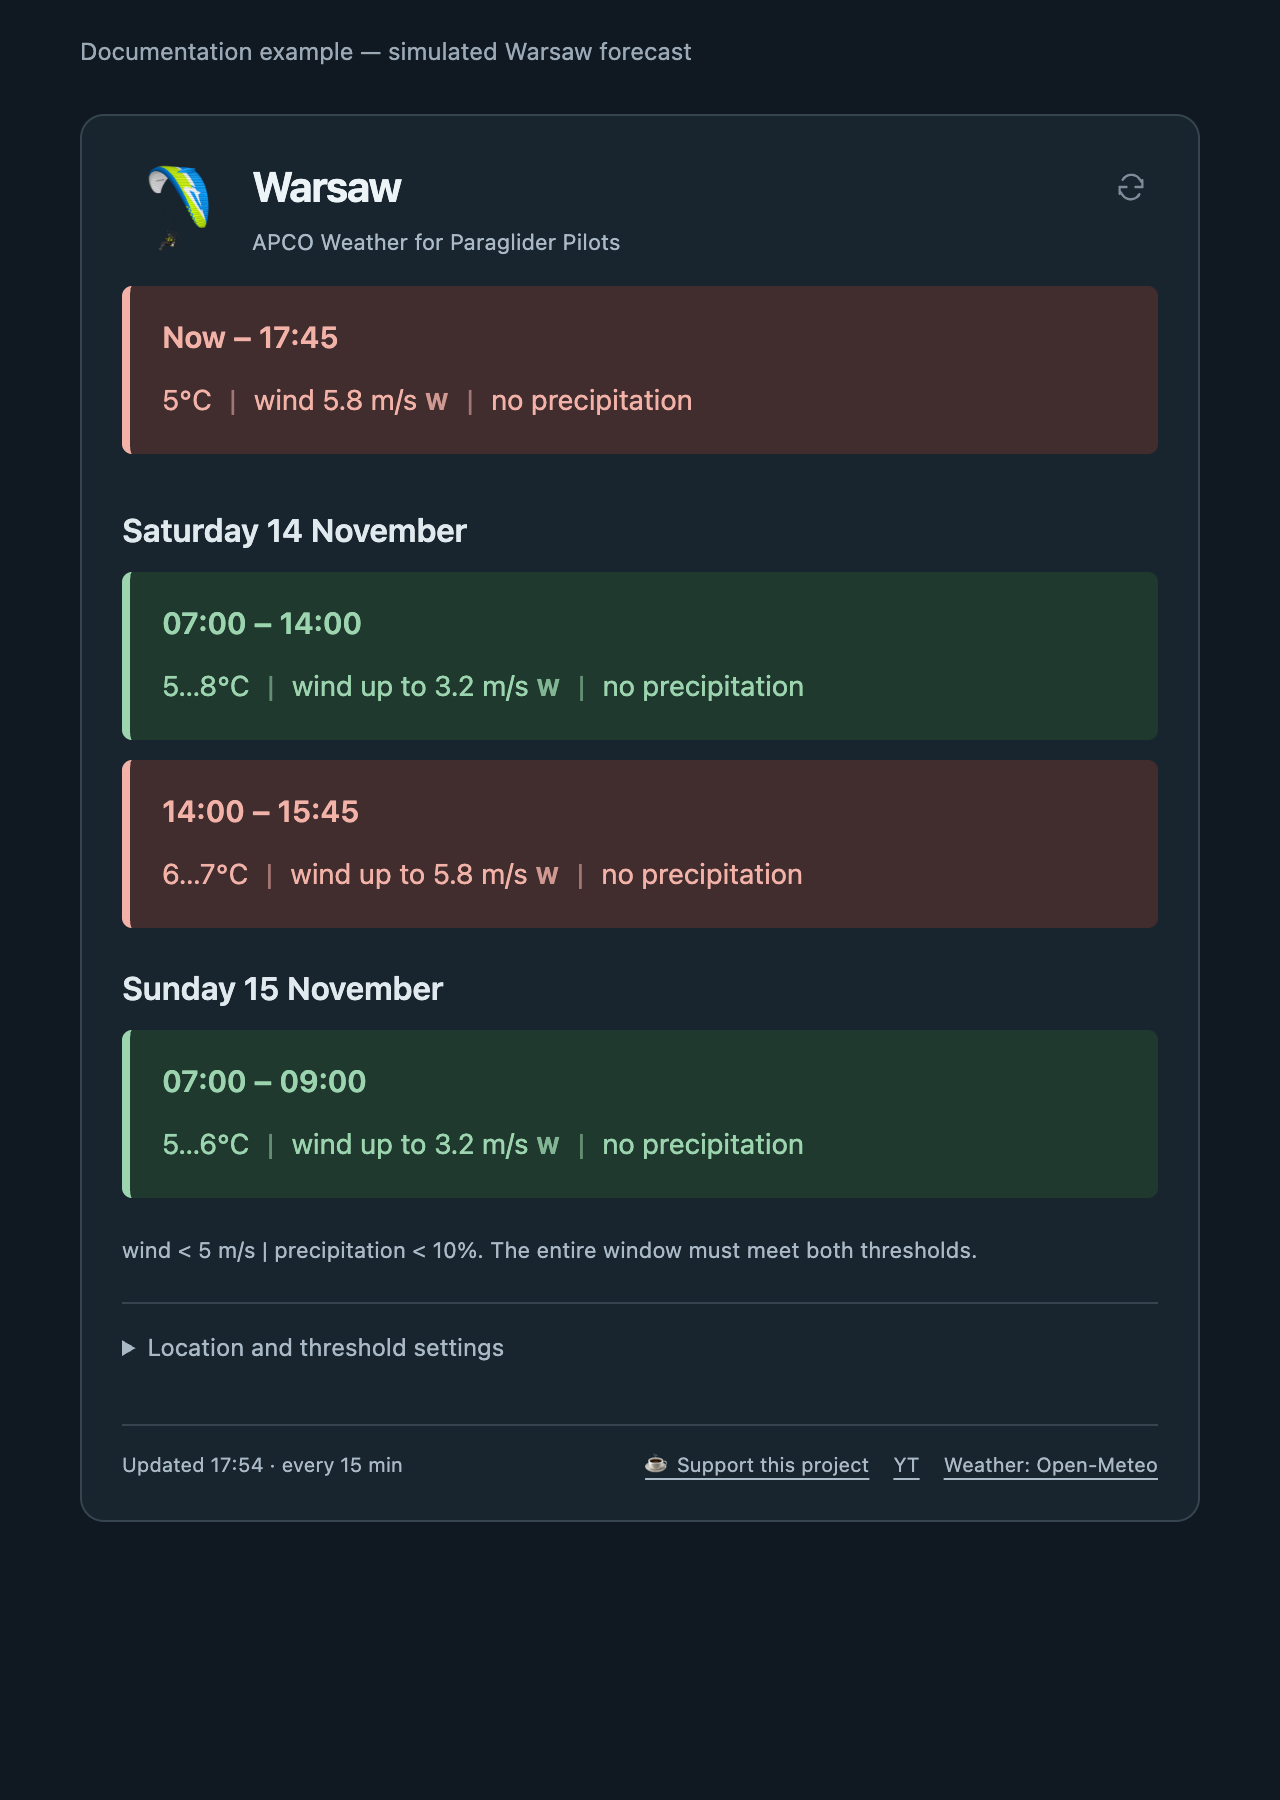
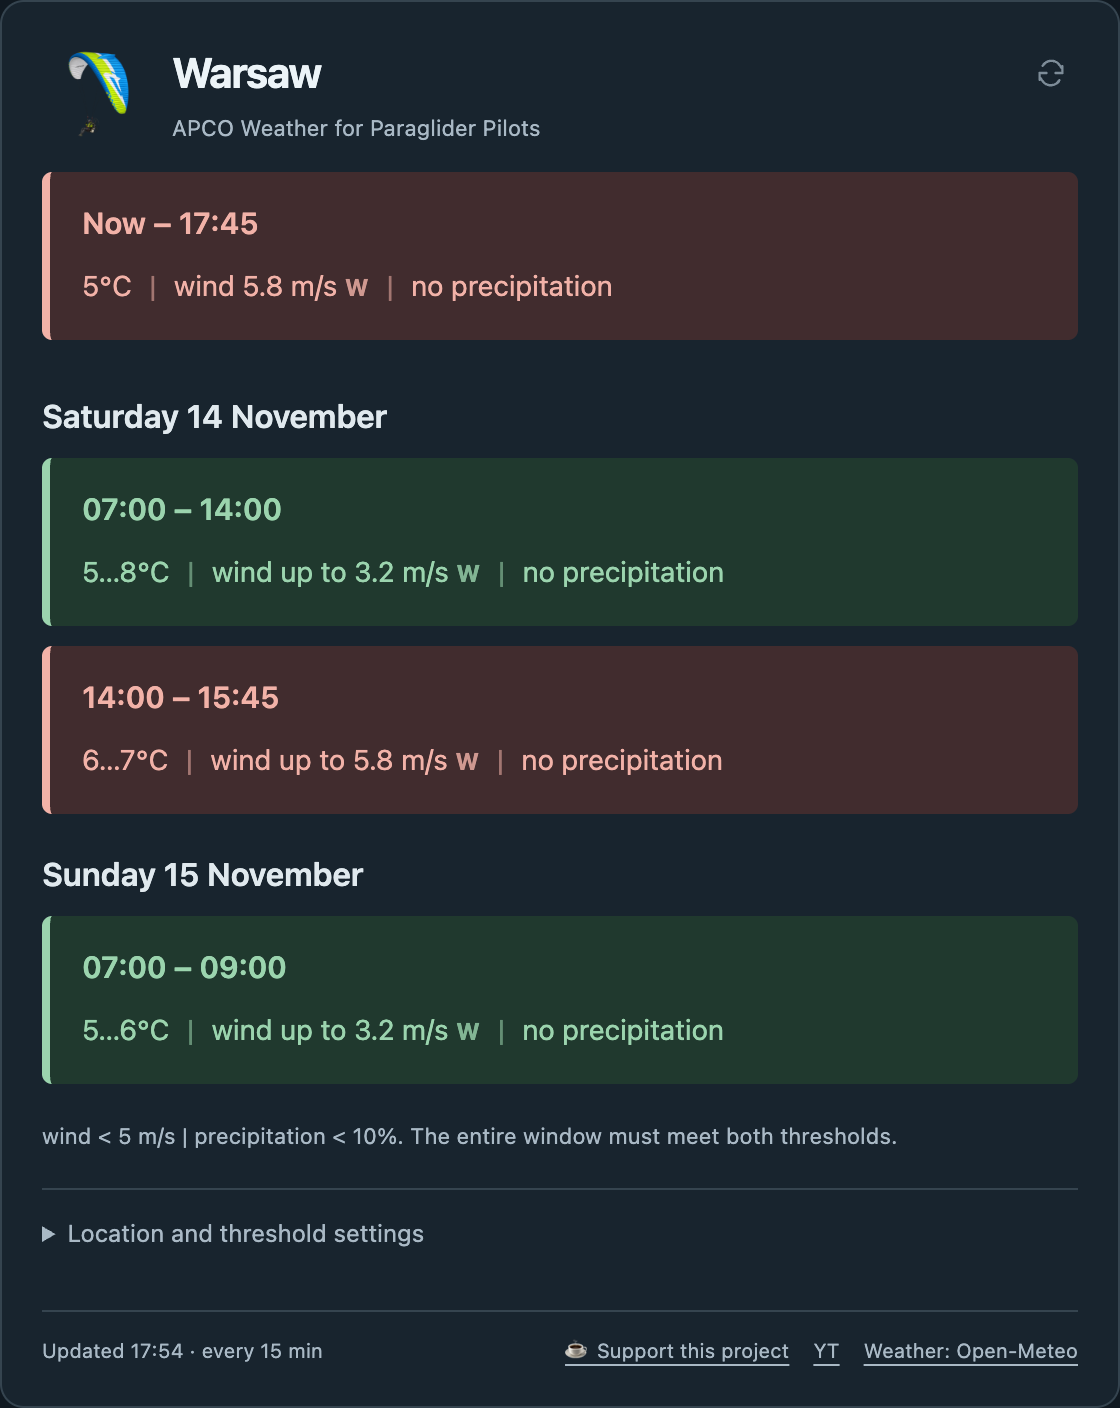
Crop documentation screenshots to card boundaries

diff --git a/wdrozenie.html b/wdrozenie.html
@@ -16,7 +16,7 @@
 <div class="note"><strong>Ważne:</strong> lokalne sprawdzenia YAML i testy logiki nie zastępują sprawdzenia na Twojej instancji Home Assistant. Jeżeli pliki na serwerze zawierają dodatkowe ustawienia, połącz zmiany — nie nadpisuj ich całym plikiem z projektu.</div>
 
 <p>Instrukcja projektu: <a href="README.pl.md">Polski</a> / <a href="README.md">English</a> / <a href="README.it.md">Italiano</a> / <a href="README.es.md">Español</a>. Bez jawnego <code>language</code> karta dopasowuje język do interfejsu HA (PL, EN, IT lub ES), a dla pozostałych wybiera angielski. Ręczny wybór ma pierwszeństwo; nieznane wartości także włączają angielski.</p>
-<p>Domyślny opis w GitHubie i HACS jest po angielsku. README zawiera dwa osobne, bezstratne zrzuty angielskiej karty w rozdzielczości 1280 × 1800, wyświetlane w README w rozmiarze 320 × 450 px, czyli o połowę niższe niż poprzednie zrzuty: Warszawę w ciemnym motywie oraz Piecki w jasnym; przykład Warszawy używa oznaczonych danych demonstracyjnych. Stopka mieści czas aktualizacji, link wsparcia, skrót „YT” i źródło pogody w jednym wierszu; na wąskim ekranie może się zawinąć.</p>
+<p>Domyślny opis w GitHubie i HACS jest po angielsku. README zawiera dwa osobne, bezstratne zrzuty angielskiej karty wykadrowane do samych kart, bez otaczającego tła i podpisów nad kartą, wyświetlane w README w szerokości 320 px z automatyczną wysokością: Warszawę w ciemnym motywie oraz Piecki w jasnym; przykład Warszawy używa oznaczonych danych demonstracyjnych. Stopka mieści czas aktualizacji, link wsparcia, skrót „YT” i źródło pogody w jednym wierszu; na wąskim ekranie może się zawinąć.</p>
 <h2>Instalacja i aktualizacje przez HACS — karta Dashboard</h2>
 <p>Projekt jest przygotowany jako karta Dashboard (kategoria techniczna <code>plugin</code>). Paczka <code>dist/apco-maniacs-card.js</code> zawiera kod, style, tłumaczenia i grafikę; HACS nie instaluje plików <code>configuration.yaml</code>, automatyzacji ani integracji Python. Publiczne repozytorium do dodania w HACS: <a href="https://github.com/piotrwozniak/apco-maniacs-card">https://github.com/piotrwozniak/apco-maniacs-card</a>.</p>
 <ol>
@@ -27,7 +27,7 @@
 <li>Przy migracji z ręcznej instalacji usuń stary zasób <code>/local/warun-web/warun-card.js</code>, zachowaj zasób HACS i konfiguracje istniejących kart. Zamknij stronę i otwórz ponownie. Typy kart i ich ustawienia pozostają zgodne.</li>
 <li>Kolejne wersje instaluj przez HACS, następnie odśwież przeglądarkę. Nie nadpisuj przy tym konfiguracji HA i scen.</li>
 </ol>
-<p>Do ręcznej instalacji tej samej paczki wystarczy jeden plik <code>dist/apco-maniacs-card.js</code> w <code>www/apco-maniacs-card/</code> i zasób <code>/local/apco-maniacs-card/apco-maniacs-card.js?v=1.0.5</code>. Wariant czteroplikowy poniżej nadal działa. Nie ładuj obu wariantów naraz.</p>
+<p>Do ręcznej instalacji tej samej paczki wystarczy jeden plik <code>dist/apco-maniacs-card.js</code> w <code>www/apco-maniacs-card/</code> i zasób <code>/local/apco-maniacs-card/apco-maniacs-card.js?v=1.0.6</code>. Wariant czteroplikowy poniżej nadal działa. Nie ładuj obu wariantów naraz.</p>
 <p>Stopka zawiera dyskretne linki: <a href="https://buymeacoffee.com/piotrwoznil">Buy Me a Coffee</a> oraz <a href="https://www.youtube.com/@piter_fly">Piotrek Lata — YouTube</a>. Szczegóły testów i wydawania wersji: <code>README.md</code>. Pierwszy release przygotowano jako wersję <code>1.0.0</code>; zdalna walidacja HACS i test na działającym HA następują po publikacji.</p>
 <h2>Wariant webowy — niezależny od Home Assistant</h2>
 <p>Folder <code>warun-web/</code> zawiera samodzielną wersję Waruna pogodowego. Ten sam element <code>&lt;apco-maniacs-card&gt;</code> działa na zwykłej stronie i jako karta dashboardu HA. Nie korzysta z integracji Python, encji pogodowych ani <code>sun.sun</code>. Pobiera dane bezpośrednio z Open-Meteo. Ten wariant nie obsługuje przypomnień o odpadach.</p>

diff --git a/dist/apco-maniacs-card.js b/dist/apco-maniacs-card.js
@@ -1,4 +1,4 @@
-// APCO Maniacs 1.0.5 — generated by node scripts/build.mjs
+// APCO Maniacs 1.0.6 — generated by node scripts/build.mjs
 // Weather: Open-Meteo. Independent community project.
 (() => {
 const DEFAULTS = Object.freeze({

diff --git a/README.pl.md b/README.pl.md
@@ -8,9 +8,9 @@ Karta pogodowa Home Assistant dla paralotniarzy. Wybierz dokładne miejsce na ma
 
 Dwa osobne, bezstratne zrzuty PNG w podwójnej rozdzielczości: Warszawa w ciemnym motywie i Piecki w jasnym. Interfejs angielski. Zrzuty tego samego komponentu w podglądzie samodzielnym, wykonane 13 listopada 2026. Dane Warszawy są demonstracyjne (zielone okno 07:00–14:00); Piecki korzystają z prognozy Open-Meteo pobranej przy wykonywaniu zrzutów. Dane demonstracyjne nie są używane przez instalowaną kartę.
 
-<img src="https://raw.githubusercontent.com/piotrwozniak/apco-maniacs-card/main/docs/weather-en-dark.png" alt="Warszawa — angielska karta, ciemny motyw" width="320" height="450">
+<img src="https://raw.githubusercontent.com/piotrwozniak/apco-maniacs-card/main/docs/weather-en-dark.png" alt="Warszawa — angielska karta, ciemny motyw" width="320">
 
-<img src="https://raw.githubusercontent.com/piotrwozniak/apco-maniacs-card/main/docs/weather-en-light.png" alt="Piecki — angielska karta, jasny motyw" width="320" height="450">
+<img src="https://raw.githubusercontent.com/piotrwozniak/apco-maniacs-card/main/docs/weather-en-light.png" alt="Piecki — angielska karta, jasny motyw" width="320">
 
 - Mapa z pinezką w graficznym edytorze karty; współrzędne można też wpisać ręcznie.
 - Prognoza Open-Meteo dla wybranego punktu, bez encji pogodowej, integracji Python i klucza API.
@@ -65,7 +65,7 @@ Nie podmieniaj przy tym `configuration.yaml`, automatyzacji ani scen. HACS insta
 
 ## Instalacja ręczna jednego pliku
 
-Skopiuj [dist/apco-maniacs-card.js](dist/apco-maniacs-card.js) do `www/apco-maniacs-card/`. Dodaj zasób `/local/apco-maniacs-card/apco-maniacs-card.js?v=1.0.5` typu **Moduł JavaScript**. Przy pierwszym utworzeniu `www` zrestartuj HA. Nie potrzebujesz osobnych plików CSS, tłumaczeń ani grafiki.
+Skopiuj [dist/apco-maniacs-card.js](dist/apco-maniacs-card.js) do `www/apco-maniacs-card/`. Dodaj zasób `/local/apco-maniacs-card/apco-maniacs-card.js?v=1.0.6` typu **Moduł JavaScript**. Przy pierwszym utworzeniu `www` zrestartuj HA. Nie potrzebujesz osobnych plików CSS, tłumaczeń ani grafiki.
 
 Dotychczasowa wersja źródłowa w `warun-web/` nadal działa samodzielnie i może być wdrażana jako cztery pliki. Pełna instrukcja: [wdrozenie.html](wdrozenie.html).
 

diff --git a/README.es.md b/README.es.md
@@ -6,9 +6,9 @@ Tarjeta meteorológica de Home Assistant para pilotos de parapente. Elige un pun
 
 Capturas del componente independiente en inglés, con temas claro y oscuro, realizadas el 13 de noviembre de 2026. Varsovia utiliza datos de demostración simulados (ventana verde de 07:00 a 14:00); Piecki muestra el pronóstico de Open-Meteo obtenido al hacer las capturas. La tarjeta instalada nunca utiliza los datos de demostración.
 
-<img src="https://raw.githubusercontent.com/piotrwozniak/apco-maniacs-card/main/docs/weather-en-dark.png" alt="Varsovia — interfaz en inglés, tema oscuro" width="320" height="450">
+<img src="https://raw.githubusercontent.com/piotrwozniak/apco-maniacs-card/main/docs/weather-en-dark.png" alt="Varsovia — interfaz en inglés, tema oscuro" width="320">
 
-<img src="https://raw.githubusercontent.com/piotrwozniak/apco-maniacs-card/main/docs/weather-en-light.png" alt="Piecki — interfaz en inglés, tema claro" width="320" height="450">
+<img src="https://raw.githubusercontent.com/piotrwozniak/apco-maniacs-card/main/docs/weather-en-light.png" alt="Piecki — interfaz en inglés, tema claro" width="320">
 
 - Mapa nativo con marcador que puedes arrastrar en el editor visual; también permite introducir coordenadas manualmente.
 - Pronóstico de Open-Meteo sin entidad meteorológica, integración Python ni clave API.
@@ -63,7 +63,7 @@ No sustituyas `configuration.yaml`, automatizaciones ni escenas. HACS instala so
 
 ## Instalación manual de un solo archivo
 
-Copia [dist/apco-maniacs-card.js](dist/apco-maniacs-card.js) a `www/apco-maniacs-card/`. Añade `/local/apco-maniacs-card/apco-maniacs-card.js?v=1.0.5` como recurso de tipo **Módulo JavaScript**. Si acabas de crear `www`, reinicia HA. No necesitas archivos CSS, traducciones ni imágenes por separado.
+Copia [dist/apco-maniacs-card.js](dist/apco-maniacs-card.js) a `www/apco-maniacs-card/`. Añade `/local/apco-maniacs-card/apco-maniacs-card.js?v=1.0.6` como recurso de tipo **Módulo JavaScript**. Si acabas de crear `www`, reinicia HA. No necesitas archivos CSS, traducciones ni imágenes por separado.
 
 La versión fuente de `warun-web/` también funciona de forma independiente y puede desplegarse con cuatro archivos. La guía detallada [wdrozenie.html](wdrozenie.html) está en polaco.
 

diff --git a/README.md b/README.md
@@ -8,9 +8,9 @@ A Home Assistant weather card for paraglider pilots. Choose an exact point on th
 
 Two separate, lossless PNG screenshots at 2× pixel density: Warsaw in the dark theme, and Piecki in the light theme. Both use the English interface. Captured from the same component in its standalone preview on 13 November 2026. Warsaw uses simulated example data (a green window from 07:00 to 14:00); Piecki shows the Open-Meteo forecast fetched at capture time. Demo data is never used by the installed card.
 
-<img src="https://raw.githubusercontent.com/piotrwozniak/apco-maniacs-card/main/docs/weather-en-dark.png" alt="Warsaw — English card, dark theme" width="320" height="450">
+<img src="https://raw.githubusercontent.com/piotrwozniak/apco-maniacs-card/main/docs/weather-en-dark.png" alt="Warsaw — English card, dark theme" width="320">
 
-<img src="https://raw.githubusercontent.com/piotrwozniak/apco-maniacs-card/main/docs/weather-en-light.png" alt="Piecki — English card, light theme" width="320" height="450">
+<img src="https://raw.githubusercontent.com/piotrwozniak/apco-maniacs-card/main/docs/weather-en-light.png" alt="Piecki — English card, light theme" width="320">
 
 - Native map with a draggable pin in the visual card editor; manual coordinates are also supported.
 - Open-Meteo forecasts for the selected point, without a weather entity, Python integration or API key.
@@ -65,7 +65,7 @@ Do not replace `configuration.yaml`, automations or scenes. HACS installs only t
 
 ## Manual single-file installation
 
-Copy [dist/apco-maniacs-card.js](dist/apco-maniacs-card.js) to `www/apco-maniacs-card/`. Add `/local/apco-maniacs-card/apco-maniacs-card.js?v=1.0.5` as a **JavaScript module** resource. If you have just created `www`, restart HA. No separate CSS, translation or image files are required.
+Copy [dist/apco-maniacs-card.js](dist/apco-maniacs-card.js) to `www/apco-maniacs-card/`. Add `/local/apco-maniacs-card/apco-maniacs-card.js?v=1.0.6` as a **JavaScript module** resource. If you have just created `www`, restart HA. No separate CSS, translation or image files are required.
 
 The source version in `warun-web/` still runs standalone and can also be deployed using four files. The detailed deployment guide, [wdrozenie.html](wdrozenie.html), is in Polish.
 

diff --git a/README.it.md b/README.it.md
@@ -6,9 +6,9 @@ Scheda meteo per Home Assistant dedicata ai piloti di parapendio. Scegli un punt
 
 Schermate del componente autonomo in inglese, con temi chiaro e scuro, acquisite il 13 novembre 2026. Varsavia usa dati dimostrativi simulati (finestra verde 07:00–14:00); Piecki mostra le previsioni Open-Meteo al momento dell’acquisizione. I dati dimostrativi non sono utilizzati dalla scheda installata.
 
-<img src="https://raw.githubusercontent.com/piotrwozniak/apco-maniacs-card/main/docs/weather-en-dark.png" alt="Varsavia — interfaccia inglese, tema scuro" width="320" height="450">
+<img src="https://raw.githubusercontent.com/piotrwozniak/apco-maniacs-card/main/docs/weather-en-dark.png" alt="Varsavia — interfaccia inglese, tema scuro" width="320">
 
-<img src="https://raw.githubusercontent.com/piotrwozniak/apco-maniacs-card/main/docs/weather-en-light.png" alt="Piecki — interfaccia inglese, tema chiaro" width="320" height="450">
+<img src="https://raw.githubusercontent.com/piotrwozniak/apco-maniacs-card/main/docs/weather-en-light.png" alt="Piecki — interfaccia inglese, tema chiaro" width="320">
 
 - Mappa nativa con segnaposto trascinabile nell’editor visuale; coordinate inseribili anche manualmente.
 - Previsioni Open-Meteo senza entità meteo, integrazione Python o chiave API.
@@ -63,7 +63,7 @@ Non sostituire `configuration.yaml`, automazioni o scene. HACS installa soltanto
 
 ## Installazione manuale con un solo file
 
-Copia [dist/apco-maniacs-card.js](dist/apco-maniacs-card.js) in `www/apco-maniacs-card/`. Aggiungi `/local/apco-maniacs-card/apco-maniacs-card.js?v=1.0.5` come risorsa di tipo **Modulo JavaScript**. Se hai appena creato `www`, riavvia HA. Non servono CSS, traduzioni o immagini separati.
+Copia [dist/apco-maniacs-card.js](dist/apco-maniacs-card.js) in `www/apco-maniacs-card/`. Aggiungi `/local/apco-maniacs-card/apco-maniacs-card.js?v=1.0.6` come risorsa di tipo **Modulo JavaScript**. Se hai appena creato `www`, riavvia HA. Non servono CSS, traduzioni o immagini separati.
 
 La versione sorgente in `warun-web/` funziona anche autonomamente e può essere installata con quattro file. La guida dettagliata [wdrozenie.html](wdrozenie.html) è in polacco.
 
